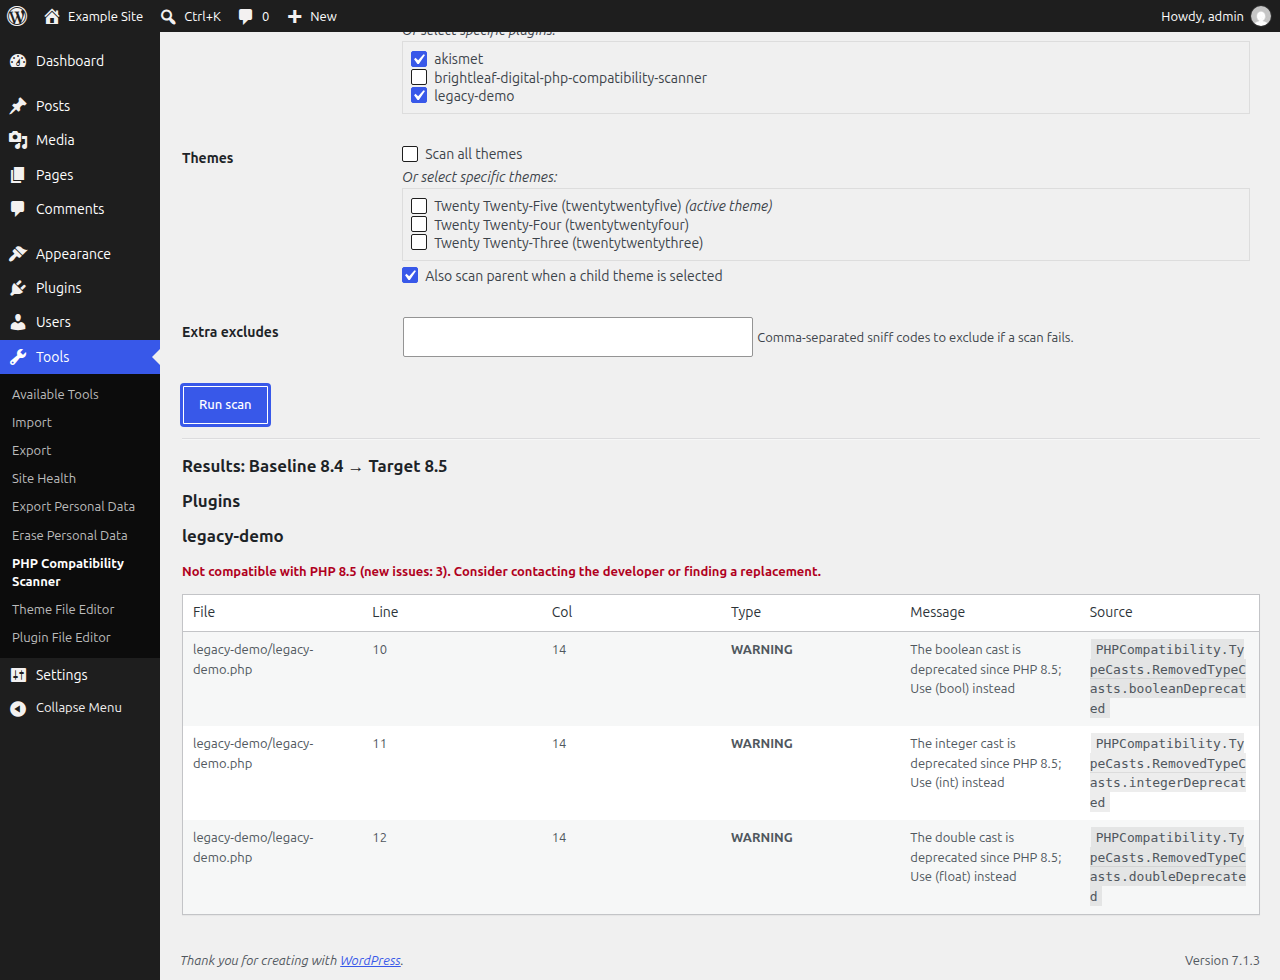
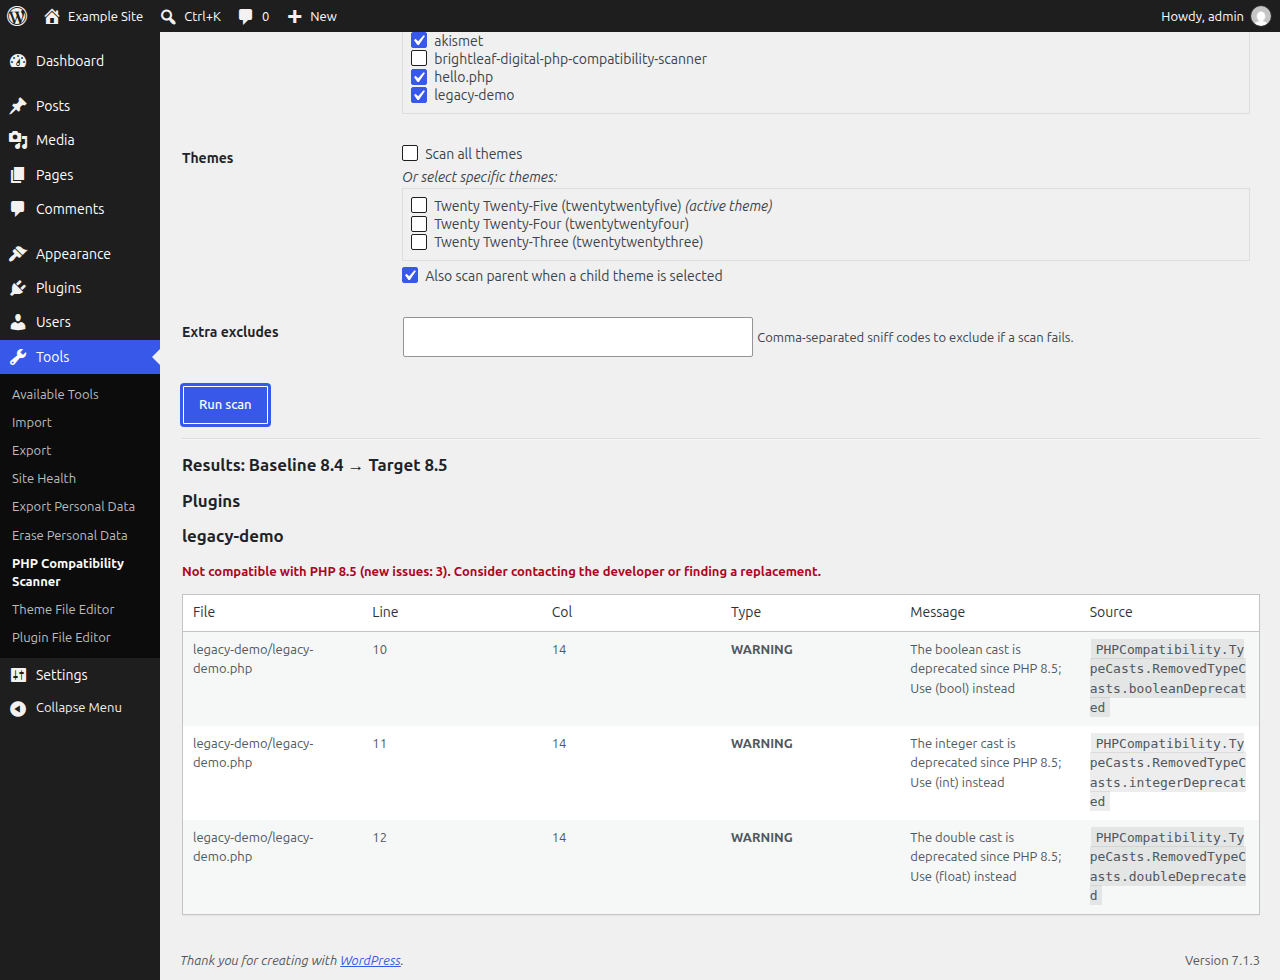
Scan single-file plugins, clean up report files, promote snippet tools
- list_plugins() only returned directories, so single-file plugins such
  as hello.php were never offered or scanned. Root-level files that
  get_plugins() recognises are now listed (index.php and other stray
  files are still skipped), and the Plugins-screen badge lookup keys
  single-file plugins by file name instead of dirname() ('.').
- run_phpcs_embedded() never deleted its wp_tempnam() report file, so
  every run left one behind. It is now removed after reading, including
  when the run fails.
- The admin notice gains a line pointing to the free code snippet
  library and GravityOps Code Snippet Manager (both URLs checked live;
  CSM's own Plugin URI /code-snippet-manager/ currently 404s).
- Screenshots retaken on a clean WP 7.1.3 / PHP 8.4 site to show the
  new notice, a hello.php badge and version 1.0.2.

Verified on that site through the real admin-ajax flow: hello.php is
listed, scanned and badged OK; no phpcs-report files remain on disk.

diff --git a/class-brightleaf-digital-php-checker-plugin.php b/class-brightleaf-digital-php-checker-plugin.php
@@ -170,9 +170,12 @@ class BrightLeaf_Digital_Php_Checker_Plugin {
 	}
 
 	/**
-     * List plugin directory slugs in WP_PLUGIN_DIR.
+     * List plugin slugs in WP_PLUGIN_DIR.
      *
-     * @return array<string> Plugin directory names.
+     * Directory plugins are listed by directory name; single-file plugins (e.g. hello.php)
+     * by file name.
+     *
+     * @return array<string> Plugin directory or file names.
      */
 	private static function list_plugins(): array {
 		$base = WP_PLUGIN_DIR;
@@ -180,13 +183,23 @@ class BrightLeaf_Digital_Php_Checker_Plugin {
 		if ( false === $dirs || ! is_array( $dirs ) ) {
 			return [];
 		}
-		$plugins = [];
+		if ( ! function_exists( 'get_plugins' ) ) {
+			require_once ABSPATH . 'wp-admin/includes/plugin.php';
+		}
+		// Only root-level files WordPress recognizes as plugins, so index.php and the like are skipped.
+		$single_file = array_filter(
+			array_keys( get_plugins() ),
+			static function ( $file ) {
+				return false === strpos( (string) $file, '/' );
+			}
+		);
+		$plugins     = [];
 		foreach ( $dirs as $d ) {
 			if ( '.' === $d || '..' === $d ) {
 				continue;
 			}
 			$path = $base . '/' . $d;
-			if ( is_dir( $path ) ) {
+			if ( is_dir( $path ) || ( is_file( $path ) && in_array( $d, $single_file, true ) ) ) {
 				$plugins[] = $d;
 			}
 		}
@@ -263,9 +276,10 @@ class BrightLeaf_Digital_Php_Checker_Plugin {
 	 * @return array{0:int,1:string,2:string,3:string}
 	 */
 	private static function run_phpcs_embedded( string $php_minor, bool $include_warnings, array $paths, array $extra_excludes ): array {
-		$json = '';
-		$err  = '';
-		$cmd  = 'embedded-phpcs';
+		$json        = '';
+		$err         = '';
+		$cmd         = 'embedded-phpcs';
+		$report_file = '';
 		try {
 			$report_file = wp_tempnam( 'phpcs-report' );
 			if ( ! $report_file ) {
@@ -319,6 +333,9 @@ class BrightLeaf_Digital_Php_Checker_Plugin {
 		} catch ( Throwable $e ) {
 			$err  = $e->getMessage();
 			$code = 1;
+		}
+		if ( $report_file && file_exists( $report_file ) ) {
+			wp_delete_file( $report_file );
 		}
 		return [ $code, $json, $err, $cmd ];
 	}
@@ -466,7 +483,9 @@ class BrightLeaf_Digital_Php_Checker_Plugin {
 		$opt = get_option( self::OPT_LAST_SCAN );
 		if ( ! is_array( $opt ) || empty( $opt['results'] ) ) {
 			return $meta; }
-		$slug = dirname( plugin_basename( $file ) );
+		$basename = plugin_basename( $file );
+		// Single-file plugins (e.g. hello.php) are keyed by file name, others by directory.
+		$slug = false === strpos( $basename, '/' ) ? $basename : dirname( $basename );
 		if ( isset( $opt['results'][ $slug ] ) ) {
 			$info    = $opt['results'][ $slug ];
 			$runtime = isset( $opt['runtime'] ) ? (string) $opt['runtime'] : '';
@@ -537,6 +556,7 @@ class BrightLeaf_Digital_Php_Checker_Plugin {
 
 		echo '<div class="notice notice-info" style="border-left-color: #00a0d2;">';
 		echo '<p>💡 <strong>Need more tools?</strong> Check out our other awesome plugins on <a href="https://brightleafdigital.io/" target="_blank" rel="noopener noreferrer">our website</a>!</p>';
+		echo '<p>🧩 Browse our free <a href="https://brightleafdigital.io/code/" target="_blank" rel="noopener noreferrer">code snippet library</a>, and manage snippets with GitHub-based version control using <a href="https://brightleafdigital.io/gravityops-code-snippet-manager/" target="_blank" rel="noopener noreferrer">GravityOps Code Snippet Manager</a>.</p>';
 		echo '</div>';
 
 		echo '<form id="brightleaf-digital-php-checker-form" method="post">';
